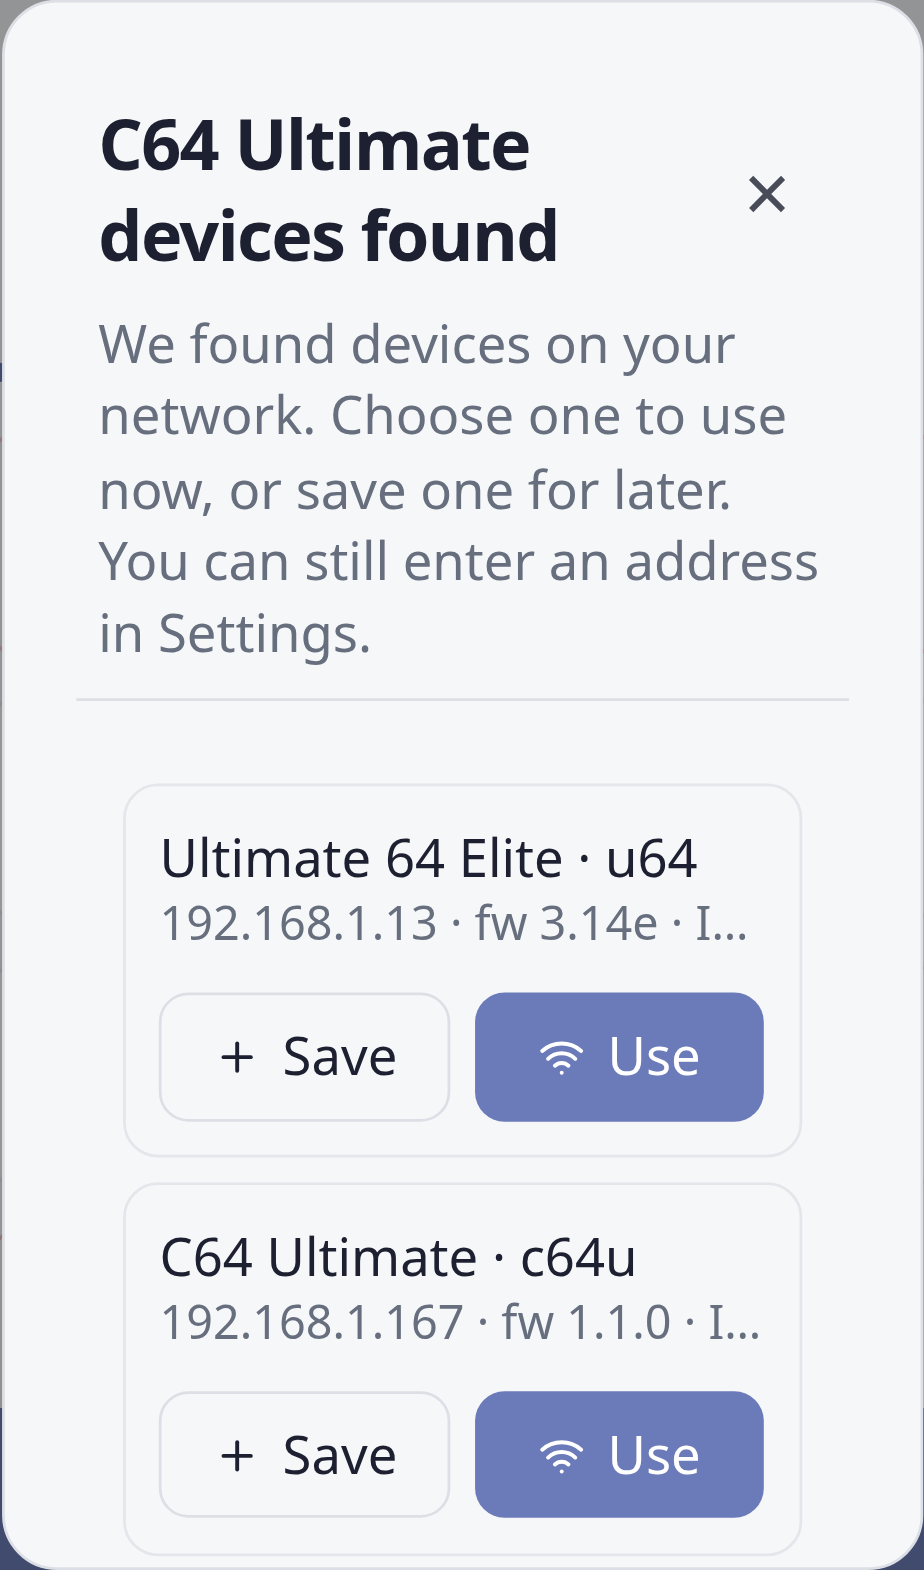
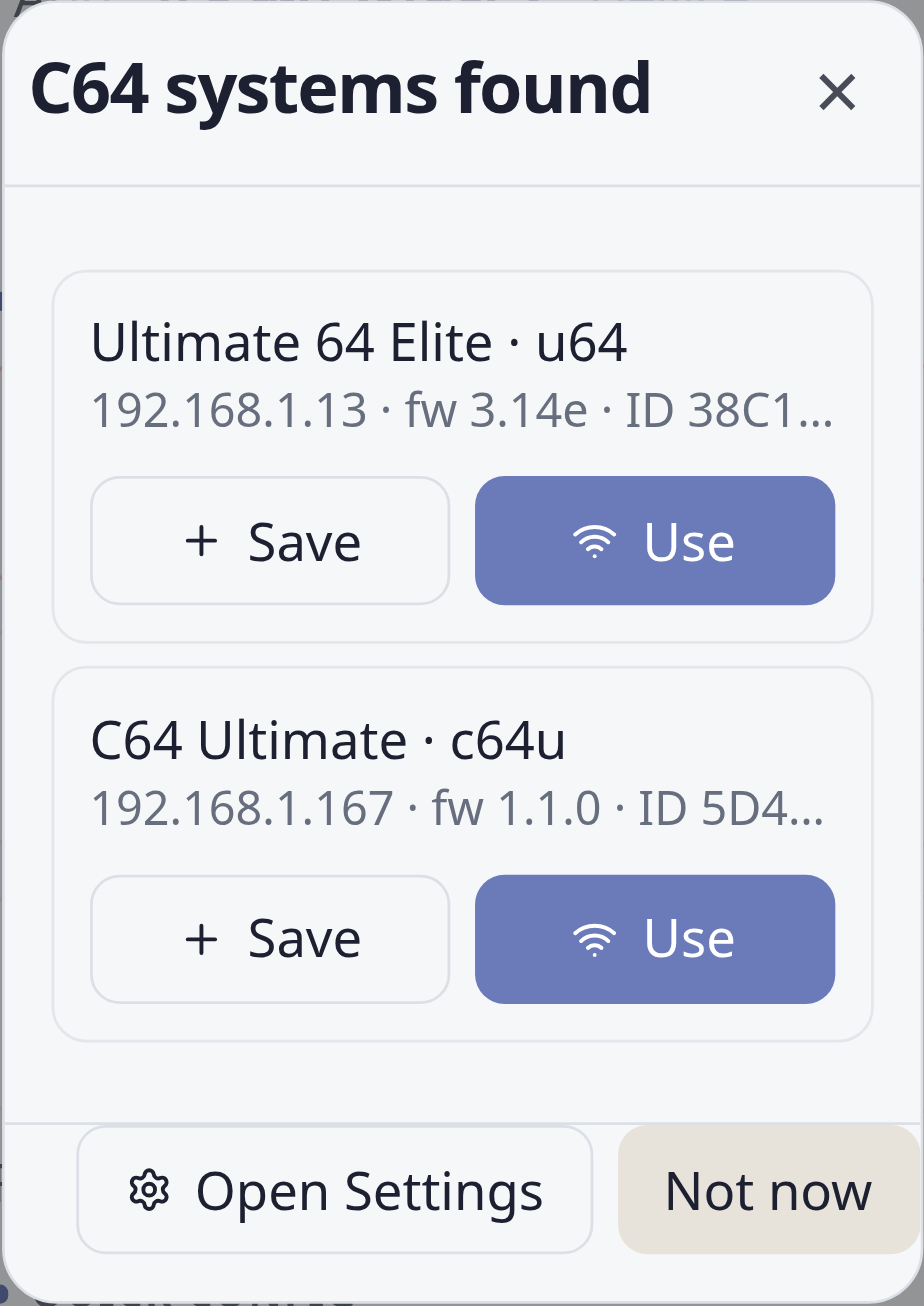
feat: Update dialog title and test references from "C64 Ultimate devices found" to "C64 systems found"

diff --git a/tests/unit/components/DeviceDiscoveryInterstitial.test.tsx b/tests/unit/components/DeviceDiscoveryInterstitial.test.tsx
@@ -110,7 +110,7 @@ describe("DeviceDiscoveryInterstitial", () => {
   it("shows automatic startup discovery results while the app is offline", () => {
     renderDialog();
 
-    expect(screen.getByText("C64 Ultimate devices found")).toBeInTheDocument();
+    expect(screen.getByText("C64 systems found")).toBeInTheDocument();
     expect(screen.getByText("Ultimate 64 Elite · u64")).toBeInTheDocument();
     expect(screen.getByText("192.168.1.13 · fw 3.14e · ID 38C1BA")).toBeInTheDocument();
     expect(screen.getByTestId("startup-use-discovered-device-id:38c1ba")).toBeInTheDocument();
@@ -121,7 +121,7 @@ describe("DeviceDiscoveryInterstitial", () => {
 
     renderDialog();
 
-    expect(screen.getByText("C64 Ultimate devices found")).toBeInTheDocument();
+    expect(screen.getByText("C64 systems found")).toBeInTheDocument();
     expect(screen.getByTestId("startup-use-discovered-device-id:38c1ba")).toBeInTheDocument();
   });
 
@@ -277,15 +277,15 @@ describe("DeviceDiscoveryInterstitial", () => {
 
     fireEvent.click(screen.getByTestId("startup-device-discovery-open-settings"));
 
-    expect(screen.queryByText("C64 Ultimate devices found")).not.toBeInTheDocument();
+    expect(screen.queryByText("C64 systems found")).not.toBeInTheDocument();
   });
 
   it("dismisses on dialog close (Escape)", () => {
     renderDialog();
-    expect(screen.getByText("C64 Ultimate devices found")).toBeInTheDocument();
+    expect(screen.getByText("C64 systems found")).toBeInTheDocument();
 
     fireEvent.keyDown(document.activeElement ?? document.body, { key: "Escape" });
 
-    expect(screen.queryByText("C64 Ultimate devices found")).not.toBeInTheDocument();
+    expect(screen.queryByText("C64 systems found")).not.toBeInTheDocument();
   });
 });

diff --git a/src/components/DeviceDiscoveryInterstitial.tsx b/src/components/DeviceDiscoveryInterstitial.tsx
@@ -196,10 +196,9 @@ export function DeviceDiscoveryInterstitial() {
     >
       <DialogContent closeTestId="startup-device-discovery-close" surface="list-browser">
         <DialogHeader>
-          <DialogTitle>C64 Ultimate devices found</DialogTitle>
+          <DialogTitle>C64 systems found</DialogTitle>
           <DialogDescription>
-            We found devices on your network. Choose one to use now, save one for later, or enter an address in
-            Settings.
+            Choose one to control now, save one for later, or enter an address manually in Settings.
           </DialogDescription>
         </DialogHeader>
 

diff --git a/playwright/screenshots.spec.ts b/playwright/screenshots.spec.ts
@@ -3066,7 +3066,7 @@ test.describe("App screenshots", () => {
       await page.setViewportSize(DISPLAY_PROFILE_VIEWPORTS.compact.viewport);
       await page.goto("/", { waitUntil: "domcontentloaded" });
 
-      const dialog = page.getByRole("dialog", { name: /C64 Ultimate devices found/i });
+      const dialog = page.getByRole("dialog", { name: /C64 systems found/i });
       await expect(dialog).toBeVisible({ timeout: 15000 });
       await expect(dialog.getByText("Ultimate 64 Elite · u64")).toBeVisible();
       // Crop to the interstitial itself, not the whole screen.